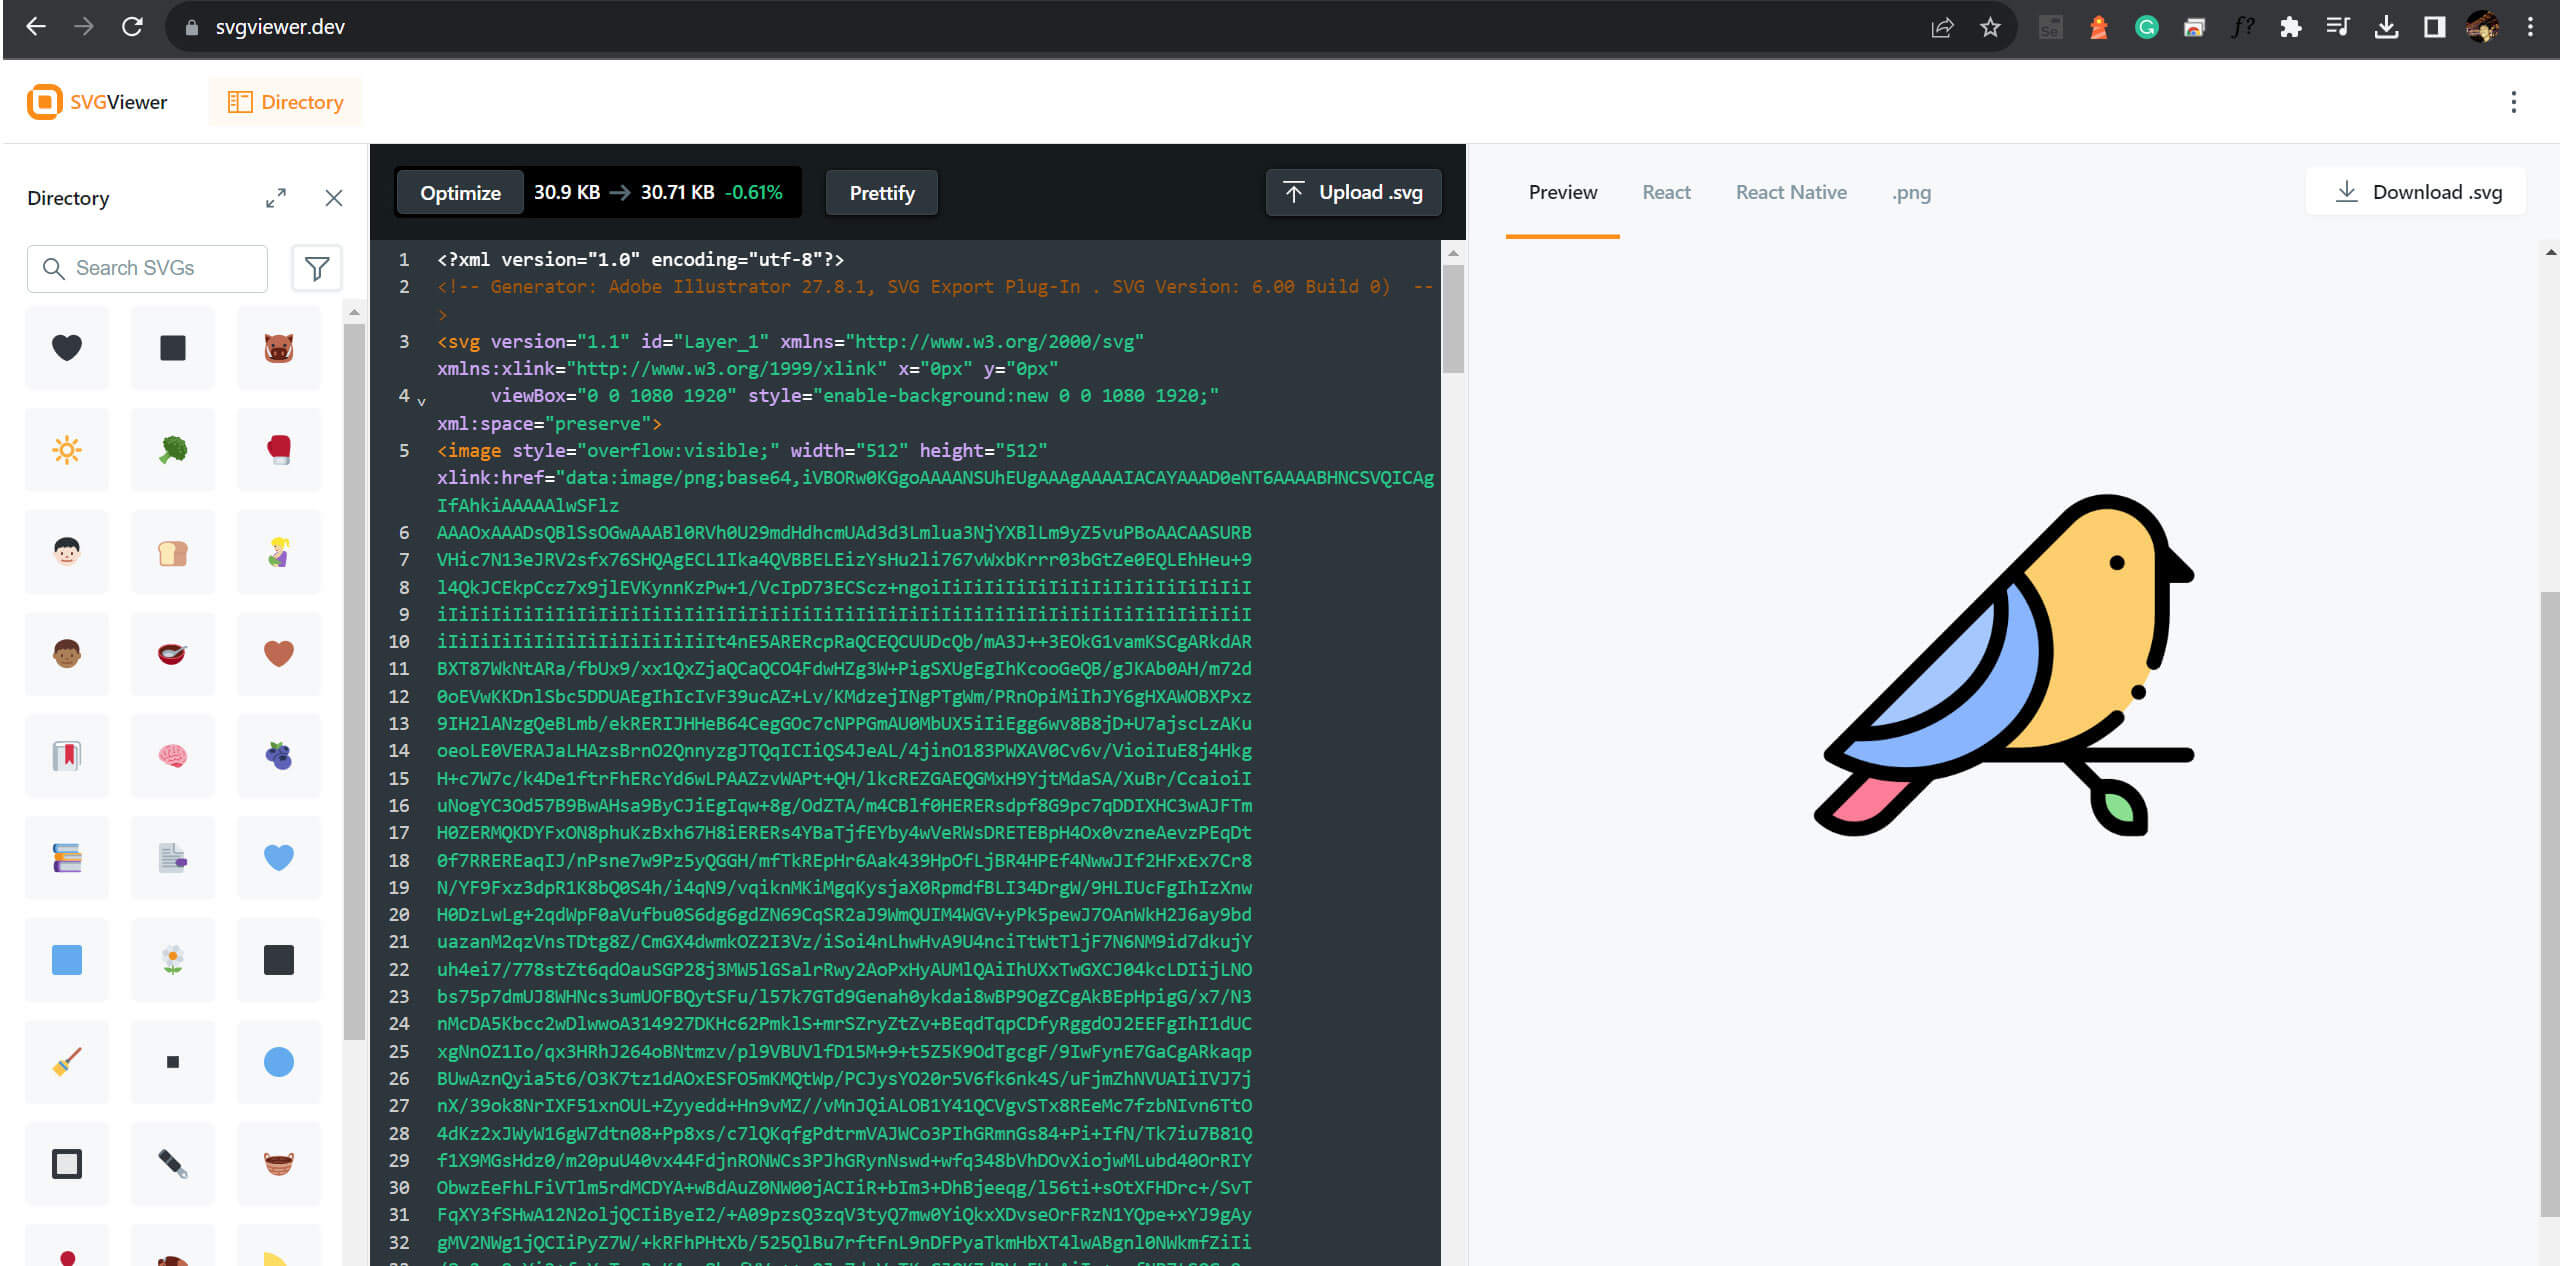
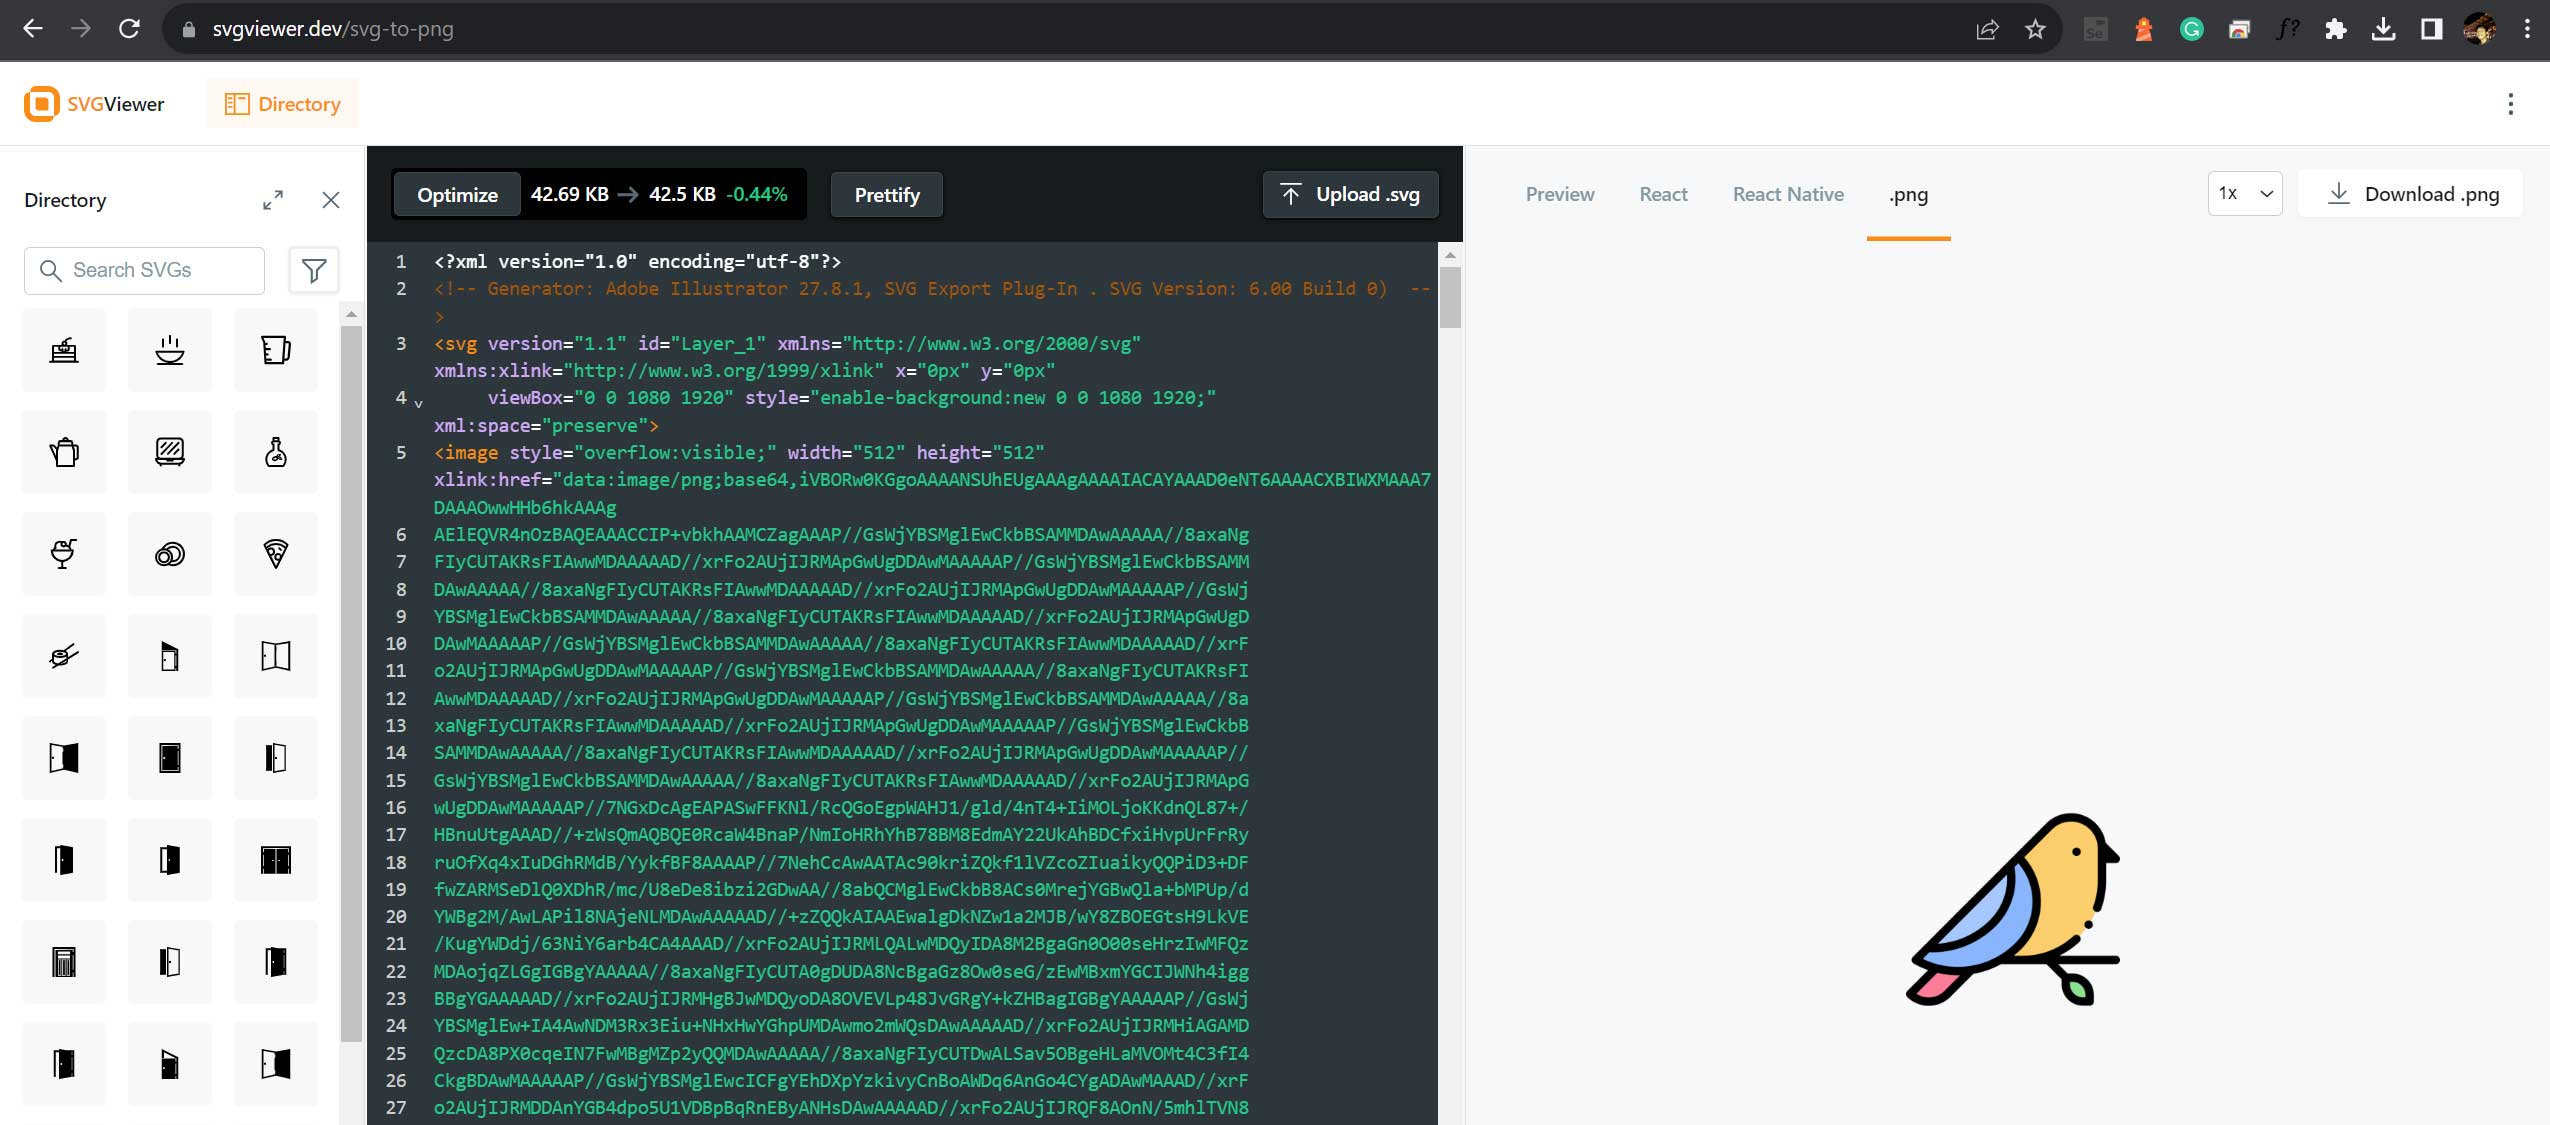
Revise image 4

diff --git a/_posts/2023-10-09-Mengkonversi-Kode-SVG-ke-PNG.md b/_posts/2023-10-09-Mengkonversi-Kode-SVG-ke-PNG.md
@@ -51,6 +51,9 @@ Keuntungan penggunaan SVG dibanding format gambar yang lain:
 
 ![Mengkonversi Kode SVG ke PNG]({{ site.baseurl }}/images/svg4.jpg)
 
+- Kemudian klik "Download PNG" di pojok kanan atas
+
+![Mengkonversi Kode SVG ke PNG]({{ site.baseurl }}/images/svg4.jpg)
 
 CMIIW.
 
